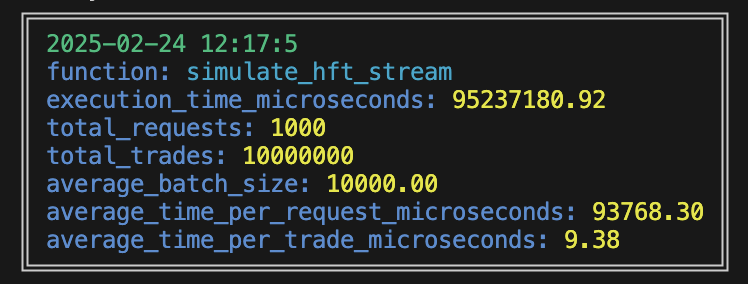
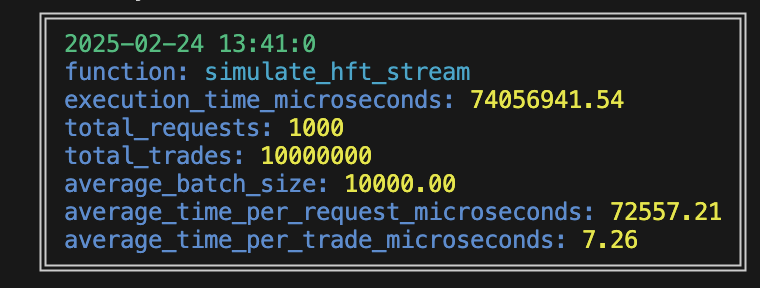
Commit latest

Changed region(s): [[0.0307, 0.0282, 0.984, 0.9577]]

diff --git a/src/services.py b/src/services.py
@@ -25,44 +25,49 @@ class RunningStats:
         Initialize RunningStats with a fixed window size.
         """
         self.window_size = window_size
-        self.values: deque[np.float32] = deque(maxlen=window_size)
-
-        # Running stats
-        self.sum: np.float32 = np.float32(0.0)
-        self.sum_squared: np.float32 = np.float32(0.0)
-        self.current_min: np.float32 = np.float32(np.inf)
-        self.current_max: np.float32 = np.float32(-np.inf)
+        self.values = deque(maxlen=window_size)
+        self.current_min = np.float32(float("inf"))
+        self.current_max = np.float32(float("-inf"))
+        self.sum = np.float32(0.0)
+        self.avg = np.float32(0.0)
+        self.M2 = np.float32(0.0)
         logger.debug(f"Initialized RunningStats with window_size={window_size}")
 
     def add(self, value: float) -> None:
-        """
-        Add a new value and update running statistics.
-        """
-        value32 = np.float32(value)
+        """Add a value to the running stats."""
+        value = np.float32(value)
+
         if len(self.values) == self.window_size:
-            oldest = self.values.popleft()
-            oldest32 = np.float32(oldest)
-            self.sum -= oldest32
-            self.sum_squared -= oldest32 * oldest32
-            logger.debug(f"Window full, removing oldest value: {oldest}")
+            old = self.values.popleft()
+            self.sum = self.sum - old
 
-            # If oldest was min/max, recalculate from window
-            if oldest == self.current_min or oldest == self.current_max:
-                self.current_min = np.float32(min(self.values))
-                self.current_max = np.float32(max(self.values))
+            # Update for sliding window
+            n = self.window_size
+            old_avg = self.avg
+            self.avg = self.avg + (value - old) / n
 
-        # Add new value
-        self.values.append(value32)
-        self.sum += value32
-        self.sum_squared += value32 * value32
+            # Update M2 by removing old value's contribution and adding new value's
+            self.M2 = (
+                self.M2
+                - (old - old_avg) * (old - self.avg)
+                + (value - old_avg) * (value - self.avg)
+            )
 
-        # Update min/max
-        if value32 < self.current_min:
-            logger.debug(f"New minimum value: {value32}")
-            self.current_min = value32
-        if value32 > self.current_max:
-            logger.debug(f"New maximum value: {value32}")
-            self.current_max = value32
+            # Update min and max if we just removed a value that was min or max
+            if old == self.current_min or old == self.current_max:
+                self.current_min = min(self.values)
+                self.current_max = max(self.values)
+        else:
+            # Welford's update for growing window
+            n = len(self.values)
+            delta = value - self.avg
+            self.avg = self.avg + delta / (n + 1)
+            self.M2 = self.M2 + delta * (value - self.avg)
+
+        self.current_min = min(self.current_min, value)
+        self.current_max = max(self.current_max, value)
+        self.sum = self.sum + value
+        self.values.append(value)
 
     def get_stats(self) -> Optional[Stats]:
         """
@@ -72,16 +77,16 @@ class RunningStats:
             logger.warning("Attempted to get stats with no values")
             return None
 
-        # Convert deque to numpy array for calculations
-        values_array = np.array(self.values)
+        n = len(self.values)
+        var = np.float32(self.M2) / np.float32(n) if n > 0 else np.float32(0)
 
         return Stats(
             min=float(self.current_min),
             max=float(self.current_max),
             last=float(self.values[-1]),
-            avg=float(np.mean(values_array)),
-            var=float(np.var(values_array)),  # uses population variance by default
-            values=len(self.values),
+            avg=float(self.avg),
+            var=float(var),
+            values=n,
         )
 
 

diff --git a/scripts/test_stats_stream.py b/scripts/test_stats_stream.py
@@ -42,11 +42,11 @@ async def simulate_stats_requests(num_requests: Optional[int] = None):
         while True:
             # Randomly select a symbol and k value
             symbol = random.choice(REAL_SYMBOLS)
-            k = random.randint(8, 8)
+            k = random.randint(1, 8)
 
             try:
                 start_time = time.perf_counter()
-                response = await client.get(f"http://localhost:8000/stats/{symbol}/{1}")
+                response = await client.get(f"http://localhost:8000/stats/{symbol}/{k}")
                 response.raise_for_status()
                 end_time = time.perf_counter()
 
@@ -67,7 +67,7 @@ async def simulate_stats_requests(num_requests: Optional[int] = None):
             except Exception as e:
                 print(f"Error querying stats for {symbol} (k={k}): {e!s}")
 
-            await asyncio.sleep(random.uniform(0.0001, 0.0001))
+            # await asyncio.sleep(random.uniform(0.0001, 0.0001))
 
             if num_requests is not None:
                 num_requests -= 1

diff --git a/scripts/monitor_ui.py b/scripts/monitor_ui.py
@@ -39,7 +39,9 @@ def symbol_progress_pill(symbol: str, progress: float, current_size: int):
             align-items: center;
         ">
             <span style="font-size: 1.5em; margin-right: 1em;">{symbol}</span>
-            <span style="font-size: 0.8em;">{percentage:.1f}% ({current_size:,}/{MAX_WINDOW_SIZE:,})</span>
+            <span style="font-size: 0.8em;">
+            {percentage:.1f}% ({current_size:,}/{MAX_WINDOW_SIZE:,})
+            </span>
         </div>
         """,
         unsafe_allow_html=True,
@@ -50,7 +52,8 @@ async def get_stats(client: httpx.AsyncClient, symbol: str, k: int):
     try:
         response = await client.get(f"http://localhost:8000/stats/{symbol}/{k}")
         return response.json() if response.status_code == 200 else None
-    except:
+    except httpx.HTTPStatusError as e:
+        print(f"HTTP error occurred: {e}")
         return None
 
 

diff --git a/scripts/test_hft_stream.py b/scripts/test_hft_stream.py
@@ -56,7 +56,6 @@ async def simulate_hft_stream(batch_count: Optional[int] = None):
         while True:
             symbol = random.choice(REAL_SYMBOLS)
             batch_size = random.randint(MIN_BATCH_SIZE, MAX_BATCH_SIZE)
-            # batch_size = 10000
             values = generate_random_values(batch_size)
             batch_data = BatchData(symbol=symbol, values=values)
 
@@ -94,4 +93,4 @@ async def simulate_hft_stream(batch_count: Optional[int] = None):
 
 # Example usage
 if __name__ == "__main__":
-    asyncio.run(simulate_hft_stream(batch_count=1000))
+    asyncio.run(simulate_hft_stream(batch_count=100000))

diff --git a/tests/test_running_stats.py b/tests/test_running_stats.py
@@ -14,7 +14,8 @@ def test_running_stats_initialization():
     assert stats.window_size == 3
     assert len(stats.values) == 0
     assert stats.sum == 0.0
-    assert stats.sum_squared == 0.0
+    assert stats.avg == 0.0
+    assert stats.M2 == 0.0
     assert stats.current_min == np.float16(np.inf)
     assert stats.current_max == np.float16(-np.inf)
 

diff --git a/README.md b/README.md
@@ -188,20 +188,42 @@ Maximum (10 symbols): ~4.5 GB
 
 ### Throughput
 
-*** add-batch ***
-- Batch Processing: ~50,000 for the first 5 test runs, then big batches with many requests
+**add-batch**
+- Batch Processing: 7&micro;s per get stats request for random sized windows from k=1...8, but 1 sample per batch costly (800&micro;s to 6ms)
 - As we increase the batch size, we can fit in more trades within a certain time window
 - Requests overhead penalty
 
-| <img src="images/batch_1_50000.png" width="300"/> | <img src="images/batch_10_5000.png" width="300"/> |
+| <img src="images/batch_1_1.png" width="300"/> | <img src="images/batch_1_1000.png" width="300"/> |
 |:---:|:---:|
-| batch-size: 1 / num of requests: 50000 | batch-size: 10 / num of requests: 5000 |
-| <img src="images/batch_100_500.png" width="300"/> | <img src="images/batch_1000_50.png" width="300"/> |
-| batch-size: 100 / num of requests: 500 | batch-size: 1000 / num of requests: 50 |
-| <img src="images/batch_10000_5.png" width="300"/> | <img src="images/batch_10000_1000.png" width="300"/> |
-| batch-size: 10000 / num of requests: 5 | batch-size: 10000 / num of requests: 1000 |
-| <img src="images/batch_rand_1000.png" width="300"/> | |
-| batch-size: random / num of requests: 1000 | |
+| batch-size: 1 / num of requests: 1 | batch-size: 1 / num of requests: 1000 |
+| <img src="images/batch_10000_1000.png" width="300"/> | <img src="images/batch_random_1000.png" width="300"/> |
+| batch-size: 1000 / num of requests: 1000 | batch-size: random / num of requests: 1000 |
+
+
+**stats**
+- Batch Processing: 7ms per stats request, 1000 async requests
+![Stats](images/stats_1000.png){width=300px}
+
+
+## Monitoring with Streamlit
+You have the ability to observe the stats and window sizes progression in Streamlit, which
+we spawn on default **localhost:8501**. To do so first make sure you have your server running and
+some batch requests been sent:
+
+```sh
+make run
+make batches
+```
+Then you can start monitoring:
+
+```sh
+make monitor-ui
+```
+
+then go [here](http://localhost:8501 "streamlit")
+
+and you should see something like this:
+![Streamlit](images/streamlit.png){width=1000px}
 
 ## API Endpoints
 - `POST /add_batch/`: Add a batch of trading data.
